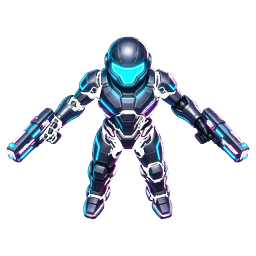
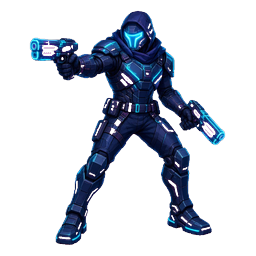
Phone combat opt6b: re-push A human player (Pages MD5 verify)
Local human player.png MD5 3b00704472bb107db48436ef425a4968. Cache-bust ?v=opt6b on Image srcs.

diff --git a/game-options/phone-roam-combat/styles.html b/game-options/phone-roam-combat/styles.html
@@ -24,28 +24,28 @@ a.btn{display:inline-flex;align-items:center;justify-content:center;min-height:4
 <section class="card">
   <h2>A — Neon cyber · twin-stick</h2>
   <div class="row">
-    <img src="a/art/style_world.png?v=opt6" alt="A style world neon cyber top-down"/>
-    <img src="a/art/hero_silhouette.png?v=opt6" alt="A hero silhouette"/>
+    <img src="a/art/style_world.png?v=opt6b" alt="A style world neon cyber top-down"/>
+    <img src="a/art/hero_silhouette.png?v=opt6b" alt="A hero silhouette"/>
   </div>
-  <a class="btn" href="a/?v=opt6">Play A</a>
+  <a class="btn" href="a/?v=opt6b">Play A</a>
 </section>
 
 <section class="card">
   <h2>B — Whimsy stubby · side slash</h2>
   <div class="row">
-    <img src="b/art/style_world.png?v=opt6" alt="B style world whimsy side view"/>
-    <img src="b/art/hero_silhouette.png?v=opt6" alt="B hero silhouette"/>
+    <img src="b/art/style_world.png?v=opt6b" alt="B style world whimsy side view"/>
+    <img src="b/art/hero_silhouette.png?v=opt6b" alt="B hero silhouette"/>
   </div>
-  <a class="btn" href="b/?v=opt6">Play B</a>
+  <a class="btn" href="b/?v=opt6b">Play B</a>
 </section>
 
 <section class="card">
   <h2>C — Painterly iso noir · stealth</h2>
   <div class="row">
-    <img src="c/art/style_world.png?v=opt6" alt="C style world painterly iso noir"/>
-    <img src="c/art/hero_silhouette.png?v=opt6" alt="C hero silhouette"/>
+    <img src="c/art/style_world.png?v=opt6b" alt="C style world painterly iso noir"/>
+    <img src="c/art/hero_silhouette.png?v=opt6b" alt="C hero silhouette"/>
   </div>
-  <a class="btn" href="c/?v=opt6">Play C</a>
+  <a class="btn" href="c/?v=opt6b">Play C</a>
 </section>
 </main>
 </body>

diff --git a/game-options/phone-roam-combat/a/game.js b/game-options/phone-roam-combat/a/game.js
@@ -11,11 +11,11 @@
     im.src = src;
     return im;
   }
-  const heroImg = loadImg('./art/player.png?v=opt6');
-  const heroImg2 = loadImg('./art/player_f2.png?v=opt6');
-  const enemyTri = loadImg('./art/enemy_tri.png?v=opt6');
-  const enemyPod = loadImg('./art/enemy_pod.png?v=opt6');
-  const enemyRock = loadImg('./art/enemy_rock.png?v=opt6');
+  const heroImg = loadImg('./art/player.png?v=opt6b');
+  const heroImg2 = loadImg('./art/player_f2.png?v=opt6b');
+  const enemyTri = loadImg('./art/enemy_tri.png?v=opt6b');
+  const enemyPod = loadImg('./art/enemy_pod.png?v=opt6b');
+  const enemyRock = loadImg('./art/enemy_rock.png?v=opt6b');
 
 
   const canvas = document.getElementById("c");

diff --git a/game-options/phone-roam-combat/b/game.js b/game-options/phone-roam-combat/b/game.js
@@ -7,10 +7,10 @@
     im.src = src;
     return im;
   }
-  var heroImg = loadImg('./art/player.png?v=opt6');
-  var heroImg2 = loadImg('./art/player_f2.png?v=opt6');
-  var blobImg = loadImg('./art/enemy_blob.png?v=opt6');
-  var blobAlt = loadImg('./art/enemy_blob_alt.png?v=opt6');
+  var heroImg = loadImg('./art/player.png?v=opt6b');
+  var heroImg2 = loadImg('./art/player_f2.png?v=opt6b');
+  var blobImg = loadImg('./art/enemy_blob.png?v=opt6b');
+  var blobAlt = loadImg('./art/enemy_blob_alt.png?v=opt6b');
 
 (function () {
   "use strict";

diff --git a/game-options/phone-roam-combat/c/game.js b/game-options/phone-roam-combat/c/game.js
@@ -7,9 +7,9 @@
     im.src = src;
     return im;
   }
-  var heroImg = loadImg('./art/player.png?v=opt6');
-  var heroImg2 = loadImg('./art/player_f2.png?v=opt6');
-  var guardImg = loadImg('./art/guard.png?v=opt6');
+  var heroImg = loadImg('./art/player.png?v=opt6b');
+  var heroImg2 = loadImg('./art/player_f2.png?v=opt6b');
+  var guardImg = loadImg('./art/guard.png?v=opt6b');
 
 (function () {
   "use strict";

diff --git a/game-options/phone-roam-combat/a/index.html b/game-options/phone-roam-combat/a/index.html
@@ -72,6 +72,6 @@ canvas{background:#050510}
     </div>
   </div>
 </div>
-<script src="game.js?v=opt6"></script>
+<script src="game.js?v=opt6b"></script>
 </body>
 </html>

diff --git a/game-options/phone-roam-combat/b/index.html b/game-options/phone-roam-combat/b/index.html
@@ -70,6 +70,6 @@ canvas{background:#e9d5ff}
     </div>
   </div>
 </div>
-<script src="game.js?v=opt6"></script>
+<script src="game.js?v=opt6b"></script>
 </body>
 </html>

diff --git a/game-options/phone-roam-combat/c/index.html b/game-options/phone-roam-combat/c/index.html
@@ -67,6 +67,6 @@ canvas{background:#0b1020}
     </div>
   </div>
 </div>
-<script src="game.js?v=opt6"></script>
+<script src="game.js?v=opt6b"></script>
 </body>
 </html>

diff --git a/game-options/phone-roam-combat/a/art/STYLE_LOCK.md b/game-options/phone-roam-combat/a/art/STYLE_LOCK.md
@@ -34,7 +34,7 @@
 ## Silhouette rules (shape language)
 
 - **Camera:** true top-down (no side silhouette, no iso diamonds).
-- **Player:** compact disc / crescent ship; cyan core + forward spikes; aim direction must read at phone size.
+- **Player:** neon HUMAN / cyber fighter CHARACTER (head+torso+arms+legs); cyan/magenta glow; aim direction must read at phone size. NO ship/triangle geometry.
 - **Enemies (3 kinds):** hollow **triangle** (cyan), bumpy **pod** (magenta), faceted **rock** (dark + neon edge). Never same blob for all kinds.
 - **Projectiles:** short glowing pills / lines, not fat circles.
 
